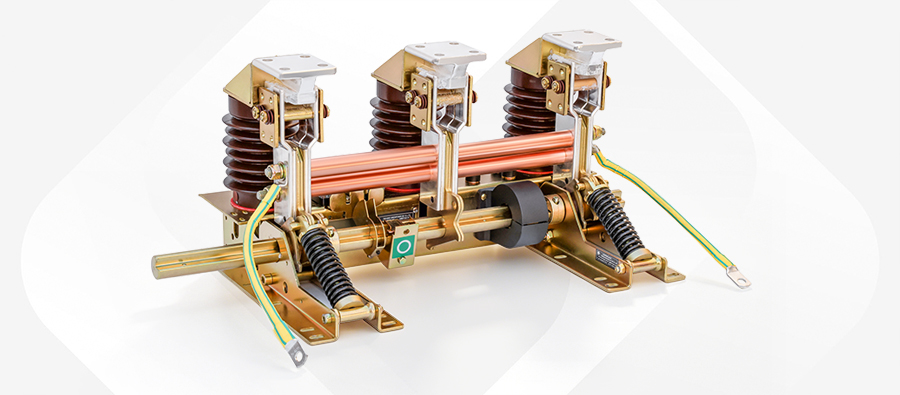
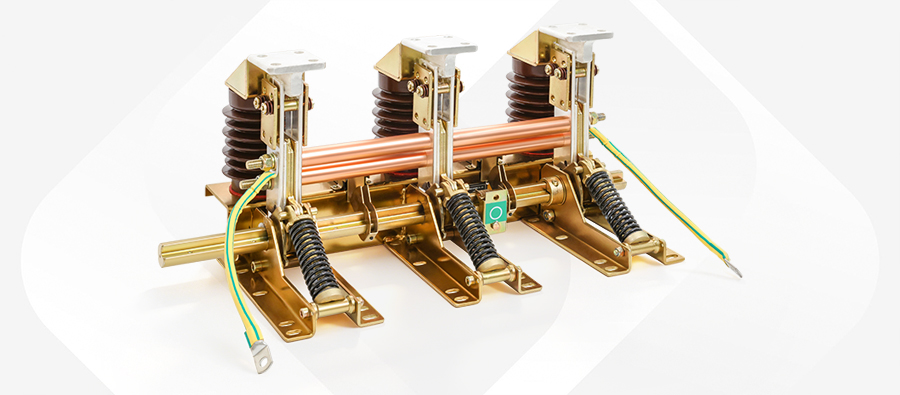
Refresh GPJN15-12kV earthing switch card image

Changed region(s): [[0.1556, 0.0608, 0.84, 0.9418]]

diff --git a/products/earthing-switch/index.html b/products/earthing-switch/index.html
@@ -377,7 +377,7 @@
           <div class="products-panel-wrap">
             <div class="products-card-grid">
                 <article class="products-card">
-                  <div class="products-card-visual has-image" style="background-image: url('/statics/web/images/product/earthing-switch/gpjn15-12kv-card.jpg');"></div>
+                  <div class="products-card-visual has-image" style="background-image: url('/statics/web/images/product/earthing-switch/gpjn15-12kv-card.jpg?v=b312247f36c9');"></div>
                   <div class="products-card-body">
                     <h2>GPJN15-12kV</h2>
                     <p>12kV earthing switch with manual or motorized operation for grounded isolation.</p>
